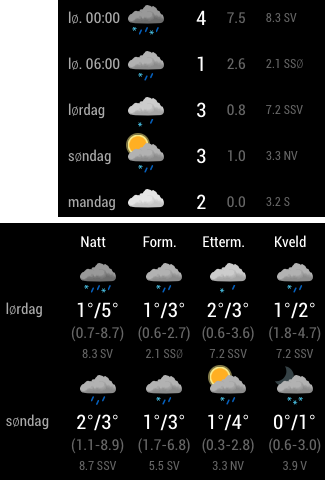
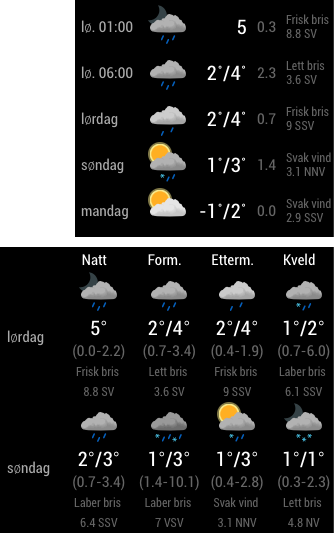
More windy details added.

diff --git a/MMM-YrThen.js b/MMM-YrThen.js
@@ -19,6 +19,9 @@ Module.register('MMM-YrThen', {
         windGust: false,
         windUnit: '',
         windSize: 'yrthen-xxsmall',
+        windText: true,
+        windTextNumber: true,
+        windTextNewLine: true,
         title: 'Værmelding for Skrubblivegen',
         header: false,
         size: "small"
@@ -30,6 +33,7 @@ Module.register('MMM-YrThen', {
             en: "translations/en.json",
             sv: "translations/sv.json",
             fi: "translations/fi.json",
+            es: "translations/es.json",
         }
     },
 
@@ -210,9 +214,20 @@ Module.register('MMM-YrThen', {
                         forecastCell.innerHTML += precValue;
                     }
                     if(this.config.windShow){
-                        var windValue = '<br><span class="dimmed ' + this.config.windSize + '">';
-                        windValue += newData.wind.speed + ' ';
-                        if(this.config.windUnit != false) windValue += this.config.windUnit + ' ';
+                        var windValue = '<br><span class="dimmed yrthen-wind-det ' + this.config.windSize + '">';
+                        if(this.config.windText){
+                            windValue += this.calculateWindSpeed(newData.wind.speed);
+                            if(this.config.windTextNumber){
+                                windValue += ' ';
+                                if(this.config.windTextNewLine) windValue += '<br>';
+                                windValue += newData.wind.speed;
+                            }
+                            windValue += ' ';
+                        }
+                        else{
+                            windValue += newData.wind.speed + ' ';
+                            if(this.config.windUnit != false) windValue += this.config.windUnit + ' ';                            
+                        }
                         windValue += this.translate(this.calculateWindDirection(newData.wind.direction));
                         if(this.config.windGust && newData.wind.gust) windValue += ' (' + newData.wind.gust + ' ' + this.translate("gust") + ') ';
                         windValue += '</span>';
@@ -254,8 +269,24 @@ Module.register('MMM-YrThen', {
                     iconCell.appendChild(icon);
         
                     var maxTempCell = document.createElement("td");
-                    if(this.config.roundTemp) maxTempCell.innerHTML = this.round(newData.temperature.value, 0);
-                    else maxTempCell.innerHTML = this.round(newData.temperature.value, 1);
+                    if(this.config.roundTemp){
+                        tempValue = this.round(newData.temperature.value, 0);
+                        maxValue = this.round(newData.temperature.max, 0);
+                        minValue = this.round(newData.temperature.min, 0);
+                    }
+                    else{
+                        tempValue = this.round(newData.temperature.value, 1);
+                        maxValue = this.round(newData.temperature.max, 1);
+                        minValue = this.round(newData.temperature.min, 1);
+                    }
+
+                    if(this.config.showMaxMin){
+                        if(newData.temperature.min && newData.temperature.max) maxTempCell.innerHTML = minValue + '˚' + this.config.maxMinSeparator + maxValue + '˚';
+                        else maxTempCell.innerHTML = tempValue;
+                    }
+                    else{
+                        maxTempCell.innerHTML = tempValue;
+                    }
                     maxTempCell.className = "align-right bright yrthen-temp " + this.config.size;
                     row.appendChild(maxTempCell);
 
@@ -263,11 +294,24 @@ Module.register('MMM-YrThen', {
                     minTempCell.innerHTML = this.round(newData.precipitation.value, 1);
                     minTempCell.className = "align-right yrthen-prec dimmed";
                     row.appendChild(minTempCell);
+
                     if(this.config.windShow){
                         windValue = '';
                         var windCell = document.createElement("td");
-                        windCell.className = "align-left yrthen-prec dimmed " + this.config.windSize;
-                        windValue += newData.wind.speed + ' ';
+                        windCell.className = "align-left yrthen-wind dimmed " + this.config.windSize;
+                        if(this.config.windText){
+                            windValue += this.calculateWindSpeed(newData.wind.speed) + ' ';
+                            if(this.config.windTextNumber){
+                                if(this.config.windTextNewLine) windValue += '<br>';
+                                windValue += newData.wind.speed;
+                                if(this.config.windUnit) windValue += ' ' + this.config.windUnit;
+                                windValue += ' ';
+                            } 
+                        }
+                        else{
+                            windValue += newData.wind.speed + ' ';
+                            if(this.config.windUnit != false) windValue += this.config.windUnit + ' ';                            
+                        }
                         if(this.config.windUnit != false) windValue += this.config.windUnit + ' ';
                         windValue += this.translate(this.calculateWindDirection(newData.wind.direction));
                         if(this.config.windGust && newData.wind.gust) windValue += ' (' + newData.wind.gust + ' ' + this.translate("gust") + ') ';
@@ -339,6 +383,25 @@ Module.register('MMM-YrThen', {
         if(d > 281.25 && d < 303.75) return 'WNW';
         if(d > 303.75 && d < 326.25) return 'NW';
         if(d > 326.25 && d < 348.75) return 'NNW';
+    },
+
+    calculateWindSpeed: function(s){
+        if(!s) return '';
+        var w = '';
+        if(s <= 0.2) return 'windCalm';
+        if(s > 0.2 && s <= 1.5) w = 'windLightAir';
+        if(s > 1.5 && s <= 3.3) w = 'windLightBreeze';
+        if(s > 3.3 && s <= 5.4) w = 'windGentleBreeze';
+        if(s > 5.4 && s <= 7.9) w = 'windModerateBreeze';
+        if(s > 7.9 && s <= 10.7) w = 'windFreshBreeze';
+        if(s > 10.7 && s <= 13.8) w = 'windStrongBreeze';
+        if(s > 13.8 && s <= 17.1) w = 'windModerateGale';
+        if(s > 17.1 && s <= 20.7) w = 'windGale';
+        if(s > 20.7 && s <= 24.4) w = 'windStrongGale';
+        if(s > 24.4 && s <= 28.4) w = 'windStorm';
+        if(s > 28.4 && s <= 32.6) w = 'windViolentStorm';
+        if(s > 32.6) w = 'windHurricaneForce';
+        return this.translate(w);
     },
 
     socketNotificationReceived: function(notification, payload) {

diff --git a/MMM-YrThen.css b/MMM-YrThen.css
@@ -19,18 +19,28 @@
   text-align: center;
 }
 .yrthen-icon-cell {
-  padding-right: 10px;
+  padding-left: 10px;
   text-align: center;
 }
 
 .yrthen-temp {
-  padding-left: 20px;
+  padding-left: 10px;
   padding-right: 0;
 }
 
 .yrthen-prec {
-  padding-left: 20px;
+  padding-left: 10px;
   padding-right: 0;
+}
+
+.yrthen-wind {
+  padding-left: 10px;
+  padding-right: 0;
+  line-height: 0.9rem;
+}
+
+.yrthen-wind-det {
+  line-height: 1rem;
 }
 
 .yrthen-timecell {

diff --git a/README.md b/README.md
@@ -38,101 +38,117 @@ Find your location using the search form at <a href="https://www.yr.no/nb/liste/
 	</tr>
 	<tr>
 		<td>location</td>
-		<td>The unique Id found in the Url of any location on <a href="https://www.yr.no/nb/liste/dag/1-2820936/Norge/Nord-Trøndelag/Steinkjer/Skrubblivegen">Yr.no</a>. Default location is Skrubblivegen in Steinkjer, Norway.</td>
-		<td>1-2296935</td>
+		<td>The unique Id found in the Url of any location on <a href="https://www.yr.no/nb/liste/dag/1-2820936/Norge/Nord-Trøndelag/Steinkjer/Skrubblivegen">Yr.no</a>. Default location is Skrubblivegen in Steinkjer, Norway. (String)</td>
+		<td>"1-2296935"</td>
 	</tr>
 	<tr>
 		<td>updateInterval</td>
-		<td>How often to get new data. Defaults to 1 hour, as the weather forecast doesn't really change too often.</td>
+		<td>How often to get new data. Defaults to 1 hour, as the weather forecast doesn't really change too often. (Integer)</td>
 		<td>3600000</td>
 	</tr>
 	<tr>
 		<td>initialLoadDelay</td>
-		<td>Dunno why, but thought it was a good idea to give it some rest before we start. Defaults to 1 sec.</td>
+		<td>Dunno why, but thought it was a good idea to give it some rest before we start. Defaults to 1 sec. (Integer)</td>
 		<td>1000</td>
 	</tr>
   <tr>
 		<td>numDays</td>
-		<td>Number of days to show.</td>
+		<td>Number of days to show. (Integer)</td>
 		<td>7</td>
 	</tr>
 	<tr>
 		<td>showAll</td>
-		<td>Show all four periods of each day or not.</td>
+		<td>Show all four periods of each day or not. (Boolean)</td>
+		<td>true</td>
+	</tr>
+	<tr>
+		<td>details</td>
+		<td>If showAll is false, show detailed weather forecast? If false, it only shows the forecast around midday (12.00). If true, it shows detailed forecast numDetails times. (Boolean)</td>
 		<td>true</td>
 	</tr>
 	<tr>
 		<td>showPrecipitation</td>
-		<td>If showAll is true, show precipitation as well?</td>
+		<td>If showAll is true, show precipitation as well? (Boolean)</td>
+		<td>true</td>
+	</tr>
+	<tr>
+		<td>detailedPrec</td>
+		<td>Show detailed precipitation? (Boolean)</td>
 		<td>true</td>
 	</tr>
 	<tr>
 		<td>showMaxMin</td>
-		<td>If showAll is true, show maximum and minimum temperature?</td>
+		<td>If showAll is true, show maximum and minimum temperature? (Boolean)</td>
 		<td>false</td>
 	</tr>
 	<tr>
 		<td>maxMinSeparator</td>
-		<td>If showMaxMin is true, which separator should be used?</td>
-		<td>-</td>
-	<tr>
-		<td>details</td>
-		<td>If showAll is false, show detailed weather forecast? If false, it only shows the forecast around midday (12.00). If true, it shows detailed forecast numDetails times.</td>
-		<td>true</td>
+		<td>If showMaxMin is true, which separator should be used? (String)</td>
+		<td>"-"</td>
 	</tr>
 	<tr>
 		<td>numDetails</td>
-		<td>How many detailed forecasts to show. Default is next two periods. Only applies if showAll is false and details is true.</td>
+		<td>How many detailed forecasts to show. Default is next two periods. Only applies if showAll is false and details is true. (Integer)</td>
 		<td>2</td>
-	</tr>
-		<tr>
-		<td>detailedPrec</td>
-		<td>Show detailed precipitation?</td>
-		<td>true</td>
 	</tr>
 	<tr>
 		<td>roundTemp</td>
-		<td>Round temperature to zero decimals.</td>
+		<td>Round temperature to zero decimals. (Boolean)</td>
 		<td>true</td>
 	</tr>
 	<tr>
 		<td>roundPrec</td>
-		<td>Round precipitation to zero decimals.</td>
+		<td>Round precipitation to zero decimals. (Boolean)</td>
 		<td>false</td>
 	</tr>
 	<tr>
 		<td>title</td>
-		<td>Title for the module, if shown.</td>
-		<td>Værmelding for Skrubblivegen</td>
+		<td>Content of the header of the module – the title. If shown, that is. (String)</td>
+		<td>"Værmelding for Skrubblivegen"</td>
 	</tr>
 	<tr>
 		<td>header</td>
-		<td>Show header or not. Contents of header is title.</td>
+		<td>Show header or not. Contents of header is title. (Boolean)</td>
 		<td>false</td>
 	</tr>
 	<tr>
 		<td>size</td>
-		<td>The size of the text. One of the CSS classes defined in main.css of MagicMirror2: "xsmall", "small", "medium", "large", "xlarge"</td>
+		<td>The size of the text. One of the CSS classes defined in main.css of MagicMirror2: "xsmall", "small", "medium", "large", "xlarge". (String)</td>
 		<td>"small"</td>
 	</tr>
 	<tr>
 		<td>windShow</td>
-		<td>Show wind forecast or not, true or false.</td>
+		<td>Show wind forecast or not? (Boolean)</td>
 		<td>true</td>
 	</tr>
 	<tr>
 		<td>windGust</td>
-		<td>Show wind gust information or not, true or false.</td>
+		<td>Show wind gust information or not. (Boolean)</td>
 		<td>false</td>
 	</tr>
 	<tr>
 		<td>windUnit</td>
-		<td>If set, it shows as the unit of the wind. Default could be m/s, but defalt is nothing at all. (string)</td>
+		<td>If set, it shows as the unit of the wind. Default could be "m/s", but I like it at nothing at all. (string)</td>
 		<td>""</td>
 	</tr>
 	<tr>
 		<td>windSize</td>
-		<td>Size of wind forecast. One of the CSS classes defined in main.css of MagicMirror2: "xsmall", "small", "medium", "large", "xlarge" – or the custom "yrthen-xxsmall" for extra, extra small.</td>
+		<td>Size of wind forecast. One of the CSS classes defined in main.css of MagicMirror2: "xsmall", "small", "medium", "large", "xlarge" – or the custom "yrthen-xxsmall" for extra, extra small. (String)</td>
 		<td>"yrthen-xxsmall"</td>
+	</tr>
+	<tr>
+		<td>windText</td>
+		<td>Show wind speed in text. (Boolean)</td>
+		<td>true</td>
+	</tr>
+	<tr>
+		<td>windTextNumber</td>
+		<td>Show wind speed in number after showing it in text. (Boolean)</td>
+		<td>true</td>
+	</tr>
+	<tr>
+		<td>windTextNewLine</td>
+		<td>If windText and windTextNumber both are true, show windTextNumber on a new line? (Boolean)</td>
+		<td>true</td>
 	</tr>
 </table>
